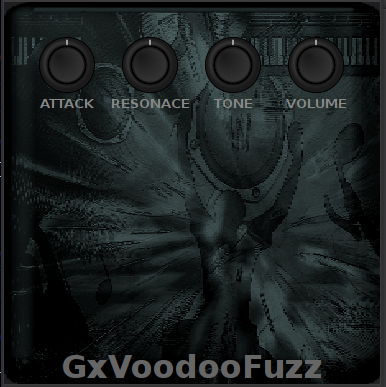
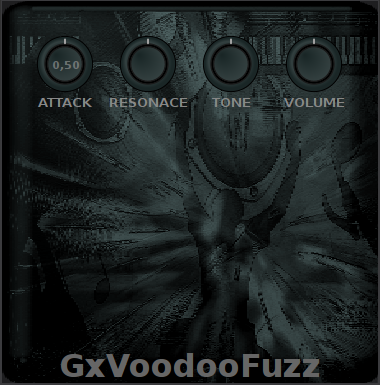
* change knob color

diff --git a/gtkknob.cc b/gtkknob.cc
@@ -130,10 +130,10 @@ static void knob_expose(GtkWidget *widget, int knob_x, int knob_y, GdkEventExpos
 	cairo_arc(cr,knobx1+arc_offset, knoby1+arc_offset, knob_x/2.1, 0, 2 * M_PI );
 	cairo_pattern_t*pat =
 		cairo_pattern_create_radial (knobx1+arc_offset-knob_x/6,knoby1+arc_offset-knob_x/6, 1,knobx1+arc_offset,knoby1+arc_offset,knob_x/2.1 );
-		cairo_pattern_add_color_stop_rgb (pat, 0.5, 0.15, 0.15, 0.15);
-		cairo_pattern_add_color_stop_rgb (pat, 0.7, 0.2, 0.2, 0.2);
-		cairo_pattern_add_color_stop_rgb (pat, 0.9, 0.1, 0.1,0.1);
-		cairo_pattern_add_color_stop_rgb (pat, 1, 0.1, 0.1,0.1);
+		cairo_pattern_add_color_stop_rgb (pat, 0.5, 0.15, 0.2, 0.2);
+		cairo_pattern_add_color_stop_rgb (pat, 0.7, 0.2, 0.25, 0.25);
+		cairo_pattern_add_color_stop_rgb (pat, 0.9, 0.1, 0.15,0.15);
+		cairo_pattern_add_color_stop_rgb (pat, 1, 0.1, 0.15,0.15);
 	
 	cairo_set_source (cr, pat);
 	cairo_fill_preserve (cr);
@@ -144,9 +144,9 @@ static void knob_expose(GtkWidget *widget, int knob_x, int knob_y, GdkEventExpos
 	cairo_arc(cr,knobx1+arc_offset, knoby1+arc_offset, knob_x/3.1, 0, 2 * M_PI );
 	pat =
 		cairo_pattern_create_radial (knobx1+arc_offset-knob_x/6,knoby1+arc_offset-knob_x/6, 1,knobx1+arc_offset,knoby1+arc_offset,knob_x/2.1 );
-		cairo_pattern_add_color_stop_rgb (pat, 0, 0.1, 0.1, 0.1);
-		cairo_pattern_add_color_stop_rgb (pat, 0.7, 0.2, 0.2, 0.2);
-		cairo_pattern_add_color_stop_rgb (pat, 1, 0.1, 0.1,0.1);
+		cairo_pattern_add_color_stop_rgb (pat, 0, 0.1, 0.15, 0.15);
+		cairo_pattern_add_color_stop_rgb (pat, 0.7, 0.2, 0.25, 0.25);
+		cairo_pattern_add_color_stop_rgb (pat, 1, 0.1, 0.15,0.15);
 	
 	cairo_set_source (cr, pat);
 	cairo_fill_preserve (cr);
